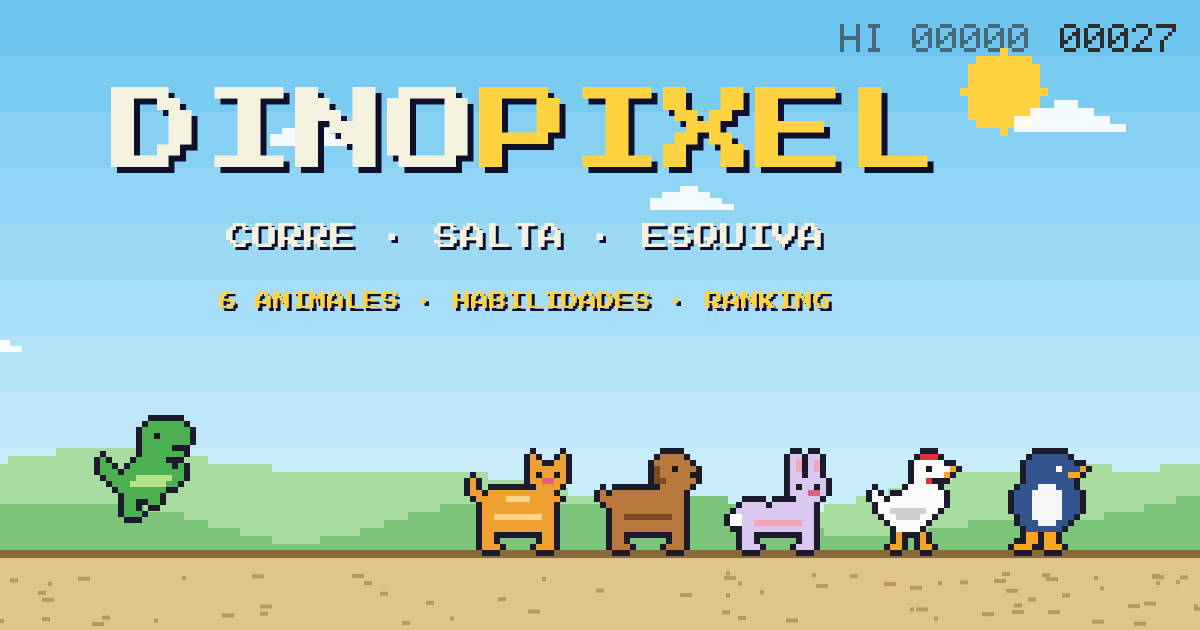
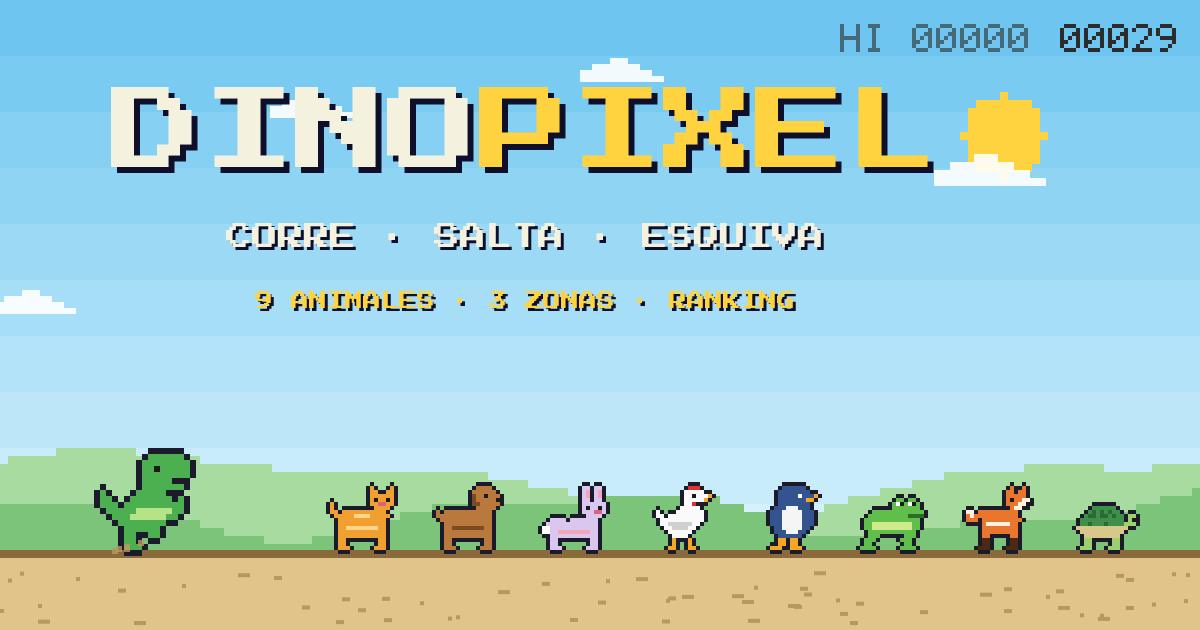
Three new animals: frog (charged super jump), fox (bird dodge on standing up), turtle (bird-proof, 15% slower)

diff --git a/game.js b/game.js
@@ -99,6 +99,49 @@ const ANIMALS = [
       ['......cc.cc.....', '......cc.cc.....', '......ccc.ccc...'],
     ],
   },
+  {
+    id: 'frog', name: 'Rana',
+    pal: { a: '#5fbf4a', b: '#cdeb8b', d: '#2e6b2a', k: '#1a1a1a', w: '#ffffff' },
+    body: [
+      '................', '................', '................', '.........aa.aa..',
+      '........awkawka.', '........aaaaaaa.', '...aaaaaaaaaaaaa', '..aaaaaaaaaadddd',
+      '.aaaaaaaaaaaaaa.', '.aabbbbbbbbbbaa.', '.aabbbbbbbbbbaa.', '..aaaaaaaaaaaa..',
+      '..aaa......aaa..',
+    ],
+    legs: [
+      ['.aaa......aaa...', '.aa........aa...', 'aaaa......aaaa..'],
+      ['..aa.....aa.....', '..aa.....aa.....', '.aaaa...aaaa....'],
+    ],
+  },
+  {
+    id: 'fox', name: 'Zorro',
+    pal: { a: '#e8762c', w: '#fff3e0', d: '#4a2a14', k: '#1a1a1a' },
+    body: [
+      '...........a..a.', '..........aa.aa.', '..........aaaaa.', '..........akaaww',
+      '..........aaawwk', '...........aww..', 'ww.aaaaaaaaaa...', 'awaaaaaaaaaaa...',
+      'aaa.aaaaaaaaaa..', '....awwwwwwaa...', '....aaaaaaaaa...', '....aaaaaaaaa...',
+      '....aa.....aa...',
+    ],
+    legs: [
+      ['....dd.....dd...', '....dd.....dd...', '...ddd....ddd...'],
+      ['.....dd...dd....', '.....dd...dd....', '....ddd..ddd....'],
+    ],
+  },
+  {
+    id: 'turtle', name: 'Tortuga',
+    crouchDrop: [0, 1, 2, 3],          // already low: crouching just keeps the shell
+    pal: { s: '#3f8f4a', S: '#2a6a35', h: '#9ccf6e', k: '#1a1a1a', b: '#d8c78a' },
+    body: [
+      '................', '................', '................', '................',
+      '................', '.....ssssss.....', '....sSsSsSss....', '...sSSsSSsSss.hh',
+      '..sssssssssss.hk', '..ssSsssSsssshhh', '.bbbbbbbbbbbbb..', '..bbbbbbbbbbb...',
+      '...bbbbbbbbb....',
+    ],
+    legs: [
+      ['...hh.....hh....', '...hh.....hh....', '..hhh....hhh....'],
+      ['....hh...hh.....', '....hh...hh.....', '...hhh..hhh.....'],
+    ],
+  },
 ];
 
 const CACTUS = [
@@ -344,7 +387,7 @@ function musicTick() {
   if (!a || !music.playing) return;
   while (music.nextT < a.currentTime + 0.18) {              // schedule a little ahead of the clock for tight timing
     const sp = Math.min(MAX_SPEED, Math.max(START_SPEED, speed || START_SPEED));
-    music.bpm = (116 + ((sp - START_SPEED) / (MAX_SPEED - START_SPEED)) * 52) * pace * (music.theme === 'night' ? 0.88 : 1);
+    music.bpm = (116 + ((sp - START_SPEED) / (MAX_SPEED - START_SPEED)) * 52) * simPace() * (music.theme === 'night' ? 0.88 : 1);
     const d = 60 / music.bpm / 4;
     musicStep(a, music.step, music.nextT, d);
     music.nextT += d; music.step++;
@@ -386,7 +429,7 @@ const haptic = (pattern) => { if (canVibrate && vibeOn) { try { navigator.vibrat
 /* ---------- unlocks: animals open up as your best score grows ---------- */
 // Best score needed per animal. Points come at ~43/s at the start and ~94/s at top speed (reached at ~2100),
 // so 1000 is ~20 s of perfect play and 7000 is ~85 s without a single mistake.
-const UNLOCK = { dino: 0, cat: 1000, dog: 2500, bunny: 4000, chick: 5500, peng: 7000 };
+const UNLOCK = { dino: 0, cat: 1000, dog: 2500, bunny: 4000, chick: 5500, peng: 7000, frog: 8500, fox: 10000, turtle: 12000 };
 ANIMALS.forEach((a) => { a.unlock = UNLOCK[a.id] || 0; });
 let best = Number(store.get('dp-best', '0')) || 0;      // best score reached with any animal
 const unlocked = (a) => best >= a.unlock;
@@ -418,7 +461,7 @@ const ACH = [
   { id: 'glide20', name: 'Planeador', desc: 'Planea 20 segundos con la gallina', goal: 20, val: () => Math.floor(stats.glideSec) },
   { id: 'slide1000', name: 'Surfista', desc: '1000 puntos deslizando con el pingüino', goal: 1000, val: () => Math.floor(stats.slidePts) },
   { id: 'master', name: 'Maestro', desc: '1500 puntos con cada animal', goal: ANIMALS.length, val: () => ANIMALS.filter((a) => animalBest[a.id] >= 1500).length },
-  { id: 'collector', name: 'Coleccionista', desc: 'Desbloquea los 6 animales', goal: ANIMALS.length, val: () => ANIMALS.filter(unlocked).length },
+  { id: 'collector', name: 'Coleccionista', desc: 'Desbloquea los ' + ANIMALS.length + ' animales', goal: ANIMALS.length, val: () => ANIMALS.filter(unlocked).length },
   { id: 'podium', name: 'Podio', desc: 'Entra en el top 3 del ranking global', goal: 1, val: () => stats.podium },
   { id: 'weekwin', name: 'Campeón semanal', desc: 'Sé el número 1 del ranking semanal', goal: 1, val: () => stats.weekwin },
   { id: 'share', name: 'Embajador', desc: 'Comparte una puntuación', goal: 1, val: () => stats.shared },
@@ -445,6 +488,9 @@ const ABILITY = {
   bunny: ['Salto alto', 'Salta mucho más'],
   chick: ['Planeo', 'Mantén al caer para planear'],
   peng: ['Deslizar', 'Agachado: puntos x2'],
+  frog: ['Supersalto', 'Agáchate para cargar un salto altísimo'],
+  fox: ['Esquiva', 'Al levantarte, los pájaros no te tocan un instante'],
+  turtle: ['Caparazón', 'Los pájaros no le hacen daño; va más despacio'],
 };
 const INVULN = 90;                                      // frames of invulnerability after the dog's shield breaks
 
@@ -459,7 +505,7 @@ let banner = { text: '', t: 0 }, newlyUnlocked = [];
 let runToken = null, lastRank = null, pendingRun = null;
 let biome = 0, biomePrev = 0, biomeT = 1;   // online ranking (see the ranking section below)
 const MIN_H = 75, CUT_V = 4;                           // variable jump: released early => cut once above MIN_H
-const P = { h: 0, vy: 0, duck: false, doubled: false, shield: 0, inv: 0 };
+const P = { h: 0, vy: 0, duck: false, doubled: false, shield: 0, inv: 0, charge: 0, dodge: 0 };
 
 const specks = Array.from({ length: 110 }, () => ({ x: rnd(0, 1400), y: rnd(GROUND + 10, H - 4), w: Math.floor(rnd(1, 4)) * 2 }));
 const clouds = Array.from({ length: 7 }, (_, i) => ({ x: i * 170 + rnd(0, 60), y: rnd(20, Math.max(40, GROUND - 110)), s: rnd(3, 5) | 0 }));
@@ -469,7 +515,7 @@ function reset() {
   score = 0; speed = START_SPEED; scroll = 0; distSince = 0; gap = 320; mile = 0; flash = 0;
   night = 0; nightTarget = 0; animT = 0; flapT = 0;
   obstacles = []; dust = [];
-  P.h = 0; P.vy = 0; P.duck = false; P.doubled = false; P.inv = 0;
+  P.h = 0; P.vy = 0; P.duck = false; P.doubled = false; P.inv = 0; P.charge = 0; P.dodge = 0;
   P.shield = animal.id === 'dog' ? 1 : 0;
   banner = { text: '', t: 0 }; newlyUnlocked = [];
   newAch = []; achQ = []; achShow = { text: '', t: 0 }; runDucked = false;
@@ -511,7 +557,9 @@ function jump() {
   }
   stats.jumps++;
   checkAch();
-  P.vy = animal.id === 'bunny' ? JUMP_V * 1.1 : JUMP_V;
+  const charged = animal.id === 'frog' && P.charge >= 20;          // frog: crouch ~1/3 s first for a super jump
+  P.vy = charged ? JUMP_V * 1.22 : animal.id === 'bunny' ? JUMP_V * 1.1 : JUMP_V;
+  P.charge = 0;
   sfx.jump();
   puff(8);
 }
@@ -582,7 +630,11 @@ function update(dt) {
   flapT += dt;
 
   // physics
+  const wasDuck = P.duck;
   P.duck = duckHeld && P.h === 0;
+  if (animal.id === 'frog') P.charge = P.duck ? Math.min(60, P.charge + dt) : Math.max(0, P.charge - 2 * dt);   // the charge fades quickly once you stand up
+  if (animal.id === 'fox' && wasDuck && !P.duck && P.h === 0) P.dodge = 30;                                    // fox: half a second of bird immunity when you stand up
+  if (P.dodge > 0) P.dodge -= dt;
   if (P.h > 0 || P.vy > 0) {
     if (!jumpHeld && P.vy > CUT_V && P.h >= MIN_H) P.vy = CUT_V;   // released early: shorter jump
     const glide = animal.id === 'chick' && jumpHeld && P.vy < 0;   // chicken: hold while falling to glide
@@ -628,6 +680,7 @@ function update(dt) {
       o.counted = true;
       if (!o.hit) { stats.dodged++; if (o.type === 'bird') stats.birds++; checkAch(); }
     }
+    if (o.type === 'bird' && (animal.id === 'turtle' || (animal.id === 'fox' && P.dodge > 0)) && overlap(pb, hitbox(o))) { o.hit = true; continue; }
     if (P.inv <= 0 && overlap(pb, hitbox(o))) {
       if (P.shield > 0) {
         P.shield = 0; P.inv = INVULN; o.hit = true;
@@ -753,8 +806,10 @@ function drawPlayer() {
     const up = P.h > 0 ? Math.floor(flapT / (gliding ? 7 : 4)) % 2 : Math.floor(animT / 20) % 2;
     if (up) { frames = animal.framesUp; duck = animal.duckUp; }
   }
+  if (P.dodge > 0) ctx.globalAlpha = 0.55;                      // fox dodging: ghostly
   if (P.duck) blit(duck[f], PX, GROUND - 36, 48, 36);
   else blit(frames[f], PX, GROUND - P.h - SP * S, SP * S, SP * S);
+  ctx.globalAlpha = 1;
 }
 
 function drawObstacles() {
@@ -942,6 +997,7 @@ function cycleVol(e) {
 showVol();
 
 /* ---------- game speed ---------- */
+const simPace = () => pace * (animal.id === 'turtle' ? 0.85 : 1);   // the turtle plays 15% slower
 const PACES = [0.6, 0.7, 0.8, 0.9, 1];
 const fine = !window.matchMedia('(pointer: coarse)').matches;   // mouse/keyboard devices default to 80%
 let pace = Number(store.get('dp-pace', fine ? '0.8' : '1'));
@@ -962,7 +1018,7 @@ showPace();
 let inGame = false;
 let last = performance.now();
 function frame(t) {
-  const dt = Math.min((t - last) / 16.667, 3) * pace;   // pace < 1 slows the whole simulation evenly
+  const dt = Math.min((t - last) / 16.667, 3) * simPace();   // pace < 1 slows the whole simulation evenly
   last = t;
   if (inGame) {
     if (!paused) update(dt);

diff --git a/index.html b/index.html
@@ -11,7 +11,7 @@
 <meta property="og:site_name" content="DinoPixel">
 <meta property="og:locale" content="es_ES">
 <meta property="og:title" content="DinoPixel - corre, salta y esquiva">
-<meta property="og:description" content="Pixel art a color con 6 animales desbloqueables, habilidades propias y ranking global. Gratis, en tu navegador.">
+<meta property="og:description" content="Pixel art a color con 9 animales desbloqueables, habilidades propias y ranking global. Gratis, en tu navegador.">
 <meta property="og:url" content="https://dinopixel-game.vercel.app/">
 <meta property="og:image" content="https://dinopixel-game.vercel.app/og-image.png">
 <meta property="og:image:width" content="1200">
@@ -19,7 +19,7 @@
 <meta property="og:image:alt" content="DinoPixel: un dinosaurio pixel art esquivando cactus junto a otros animales">
 <meta name="twitter:card" content="summary_large_image">
 <meta name="twitter:title" content="DinoPixel - corre, salta y esquiva">
-<meta name="twitter:description" content="Pixel art a color con 6 animales desbloqueables, habilidades propias y ranking global.">
+<meta name="twitter:description" content="Pixel art a color con 9 animales desbloqueables, habilidades propias y ranking global.">
 <meta name="twitter:image" content="https://dinopixel-game.vercel.app/og-image.png">
 <link rel="manifest" href="manifest.json">
 <link rel="icon" type="image/png" href="icons/icon-192.png">

diff --git a/style.css b/style.css
@@ -249,7 +249,7 @@ i[data-icon] { display: inline-flex; vertical-align: middle; --c: 2px; }
   h1 { margin: 2px 0 6px; font-size: 22px; text-shadow: 3px 3px 0 var(--shadow); }
   .tag { margin: 0; font-size: 8px; }
   .label { margin: 10px 0 12px; font-size: 8px; }
-  .picker { grid-template-columns: repeat(6, 1fr); gap: 12px; }
+  .picker { grid-template-columns: repeat(9, 1fr); gap: 10px; }
   .pick { padding: 8px 2px; gap: 6px; font-size: 8px; }
   .pick canvas { width: 42px; height: 42px; }
   .pick small { font-size: 8px; }

diff --git a/api/_lib.js b/api/_lib.js
@@ -3,7 +3,7 @@
 // Storage: Upstash Redis through its REST API (connect it from Vercel -> Storage; it sets these env vars).
 const crypto = require('crypto');
 
-const ANIMALS = ['dino', 'cat', 'dog', 'bunny', 'chick', 'peng'];
+const ANIMALS = ['dino', 'cat', 'dog', 'bunny', 'chick', 'peng', 'frog', 'fox', 'turtle'];
 const PID_RE = /^[a-f0-9]{32}$/;
 const TOP = 20;
 const MAX_SCORE = 999999;

diff --git a/sw.js b/sw.js
@@ -1,5 +1,5 @@
 // Bump this on every release: it is what makes browsers see a "new version".
-const CACHE = 'dinopixel-v42';
+const CACHE = 'dinopixel-v43';
 const ASSETS = [
   './',
   'index.html',

diff --git a/README.md b/README.md
@@ -2,7 +2,7 @@
 
 **[Juega ahora: dinopixel-game.vercel.app](https://dinopixel-game.vercel.app/)**
 
-Un juego de correr y saltar al estilo del dinosaurio de Chrome, en pixel art a color, con **6 animales
+Un juego de correr y saltar al estilo del dinosaurio de Chrome, en pixel art a color, con **9 animales
 desbloqueables**, cada uno con su propia habilidad. Se juega en el navegador y se puede instalar como **PWA**
 (funciona sin conexión). Sin dependencias ni paso de compilación: HTML, CSS y JavaScript puros.
 
@@ -41,6 +41,9 @@ Empiezas con el dino; el resto se desbloquea con tu **mejor puntuación** (con c
 | Conejo | 4000 | **Salto alto** |
 | Gallina | 5500 | **Planeo**: mantén pulsado al caer |
 | Pingüino | 7000 | **Deslizar**: agachado en el suelo, puntos x2 |
+| Rana | 8500 | **Supersalto**: agáchate un momento para cargar un salto mucho más alto |
+| Zorro | 10000 | **Esquiva**: al levantarte tras agacharte, medio segundo en que los pájaros no te tocan |
+| Tortuga | 12000 | **Caparazón**: los pájaros no le hacen daño, pero el juego va un 15 % más lento (y suma menos puntos) |
 
 Los récords se guardan por animal en el navegador (`localStorage`).
 
@@ -49,7 +52,7 @@ Los récords se guardan por animal en el navegador (`localStorage`).
 21 logros con aviso en pantalla al conseguirlos y una pantalla **Logros** (botón del menú) con el progreso de cada
 uno. Entre ellos: puntuaciones (500 a 7000), partidas jugadas, saltos, obstáculos y pájaros esquivados, 1000 puntos
 sin agacharte, uno por habilidad (doble salto del gato, escudo del perro, planeo de la gallina, deslizar del
-pingüino), 1500 con cada animal, desbloquear los 6, entrar en el top 3 del ranking, ser el número 1 de la semana y compartir. Se guardan en el
+pingüino), 1500 con cada animal, desbloquear los 9, entrar en el top 3 del ranking, ser el número 1 de la semana y compartir. Se guardan en el
 navegador (`localStorage`); los que ya cumplas al abrir el juego se marcan solos, sin avisos.
 
 ## Ajustes
@@ -140,7 +143,7 @@ El service worker guarda los archivos en una caché con nombre. Para que los usu
 aviso **"Nueva versión"**, sube el número de `CACHE` en [sw.js](sw.js) en cada publicación:
 
 ```js
-const CACHE = 'dinopixel-v42';   // -> 'dinopixel-v43', ...
+const CACHE = 'dinopixel-v43';   // -> 'dinopixel-v44', ...
 ```
 
 Notas de instalación:
